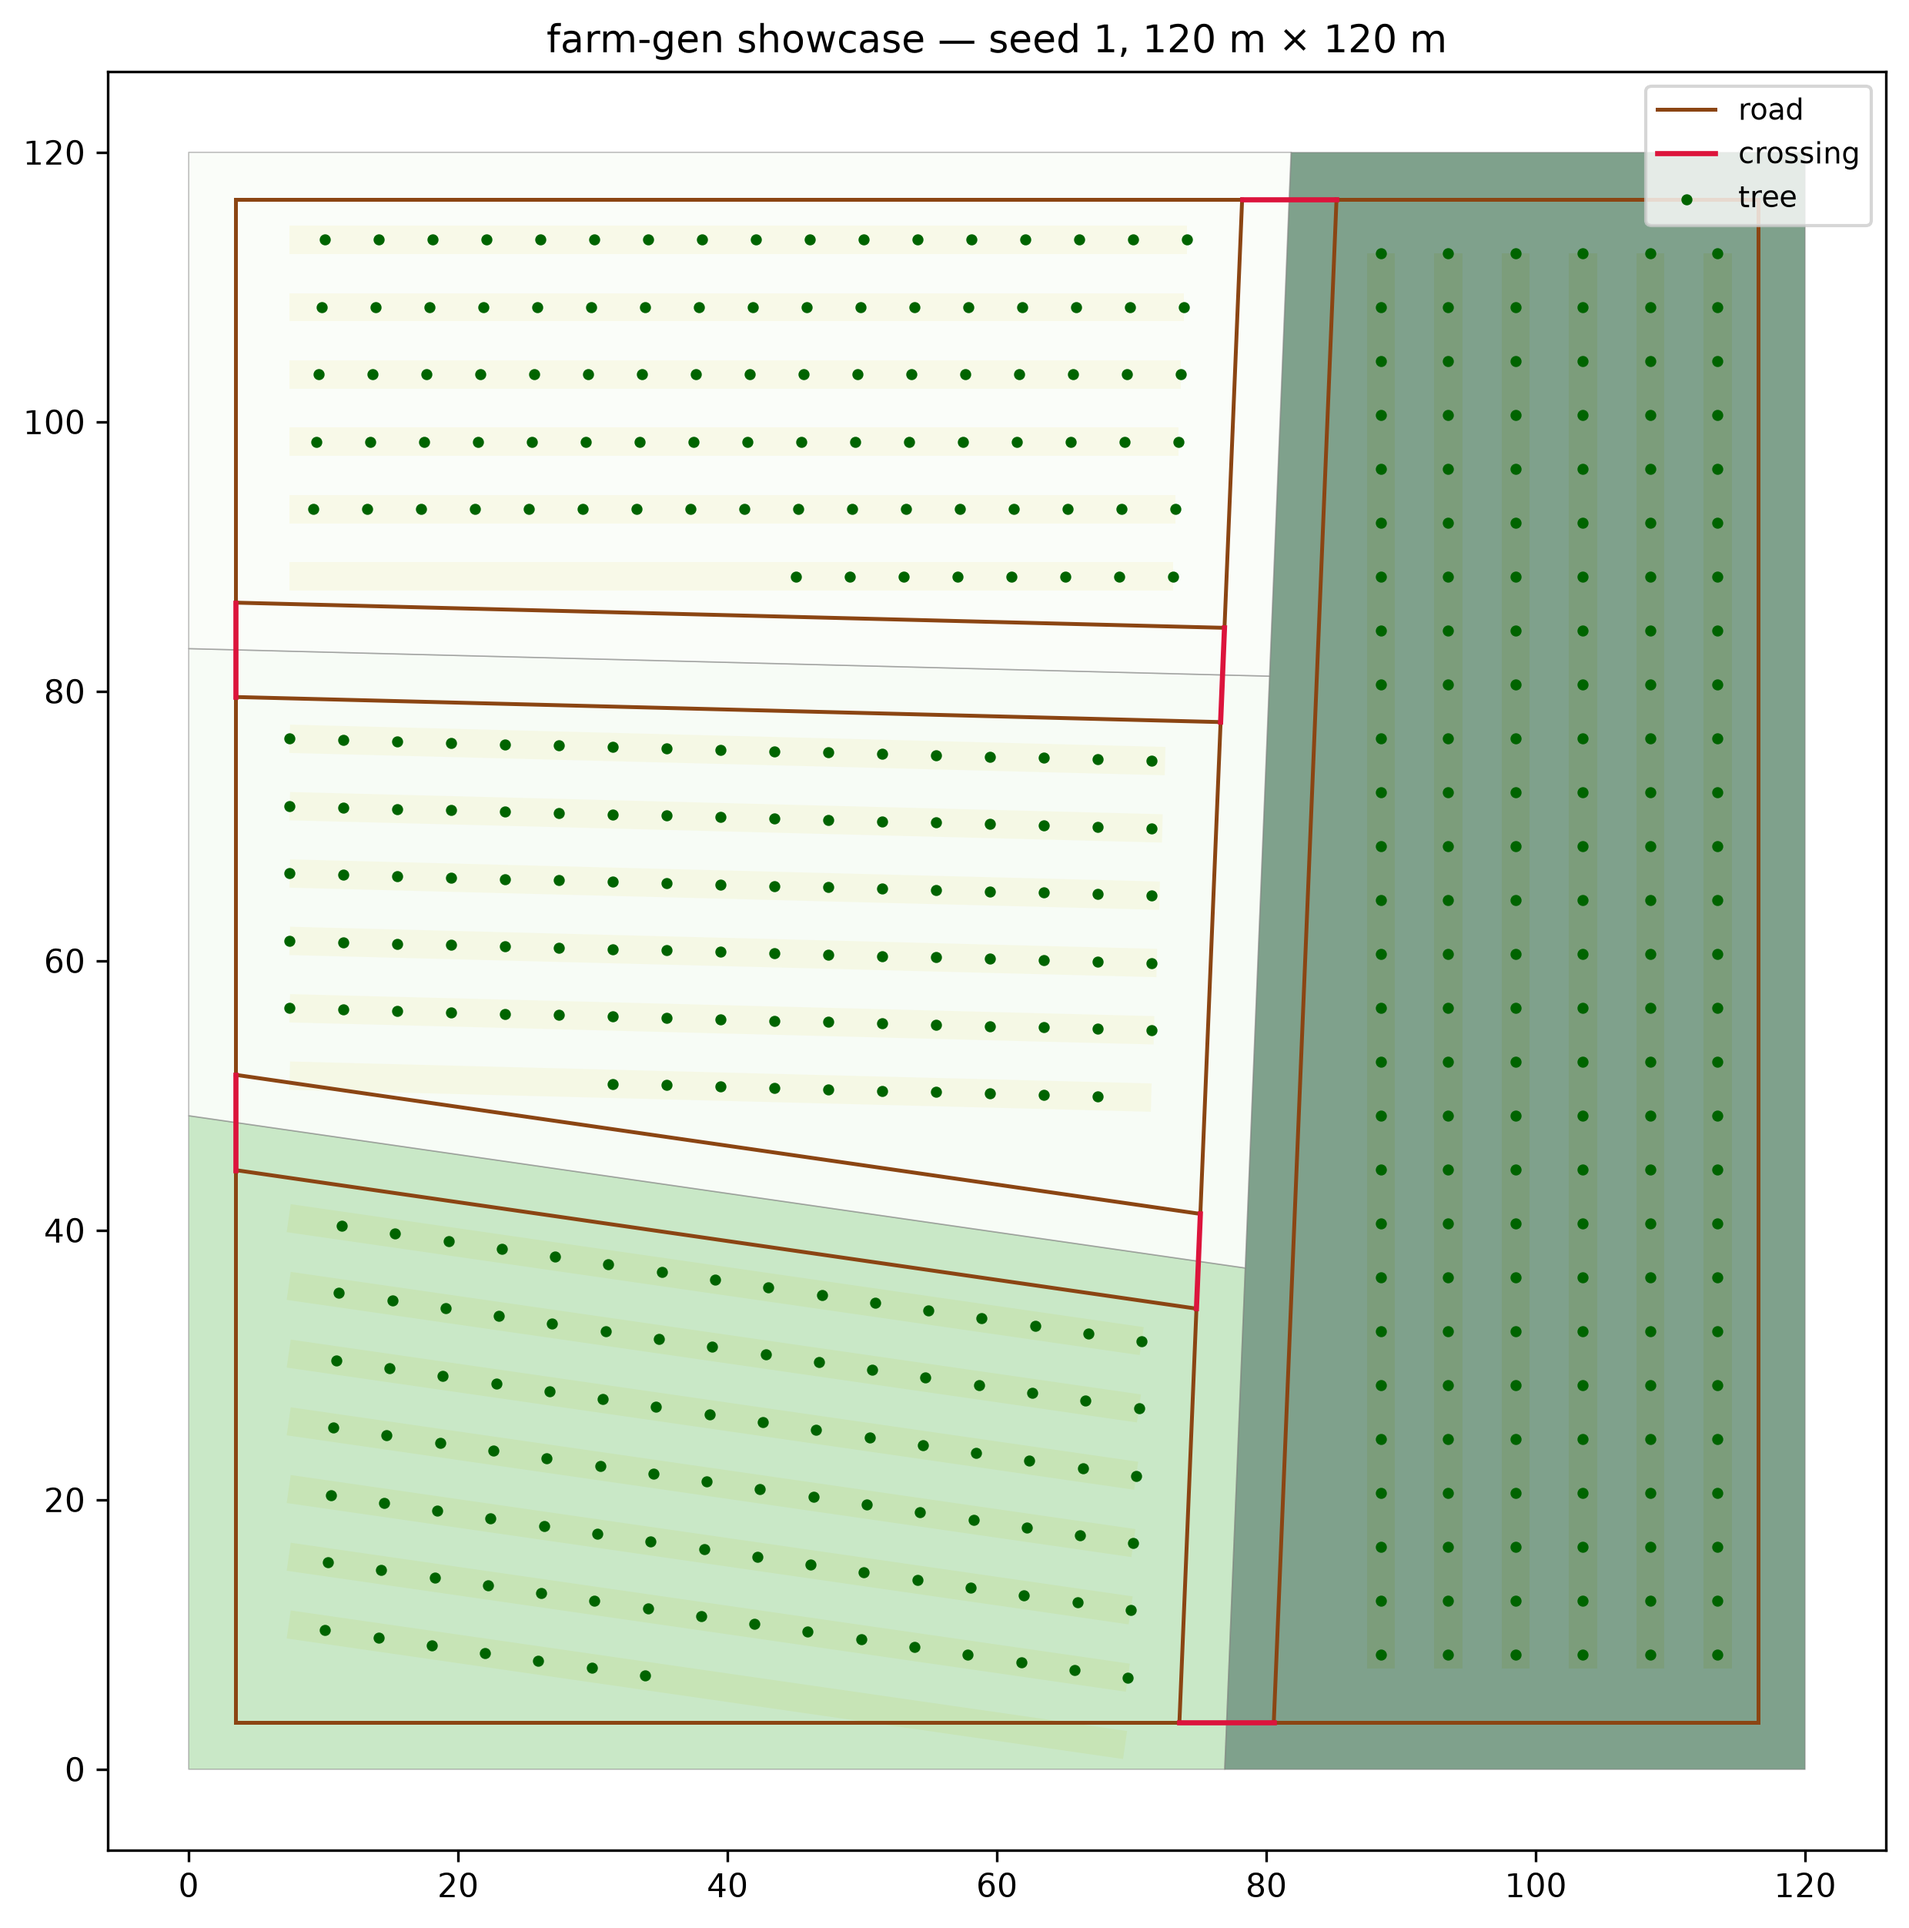
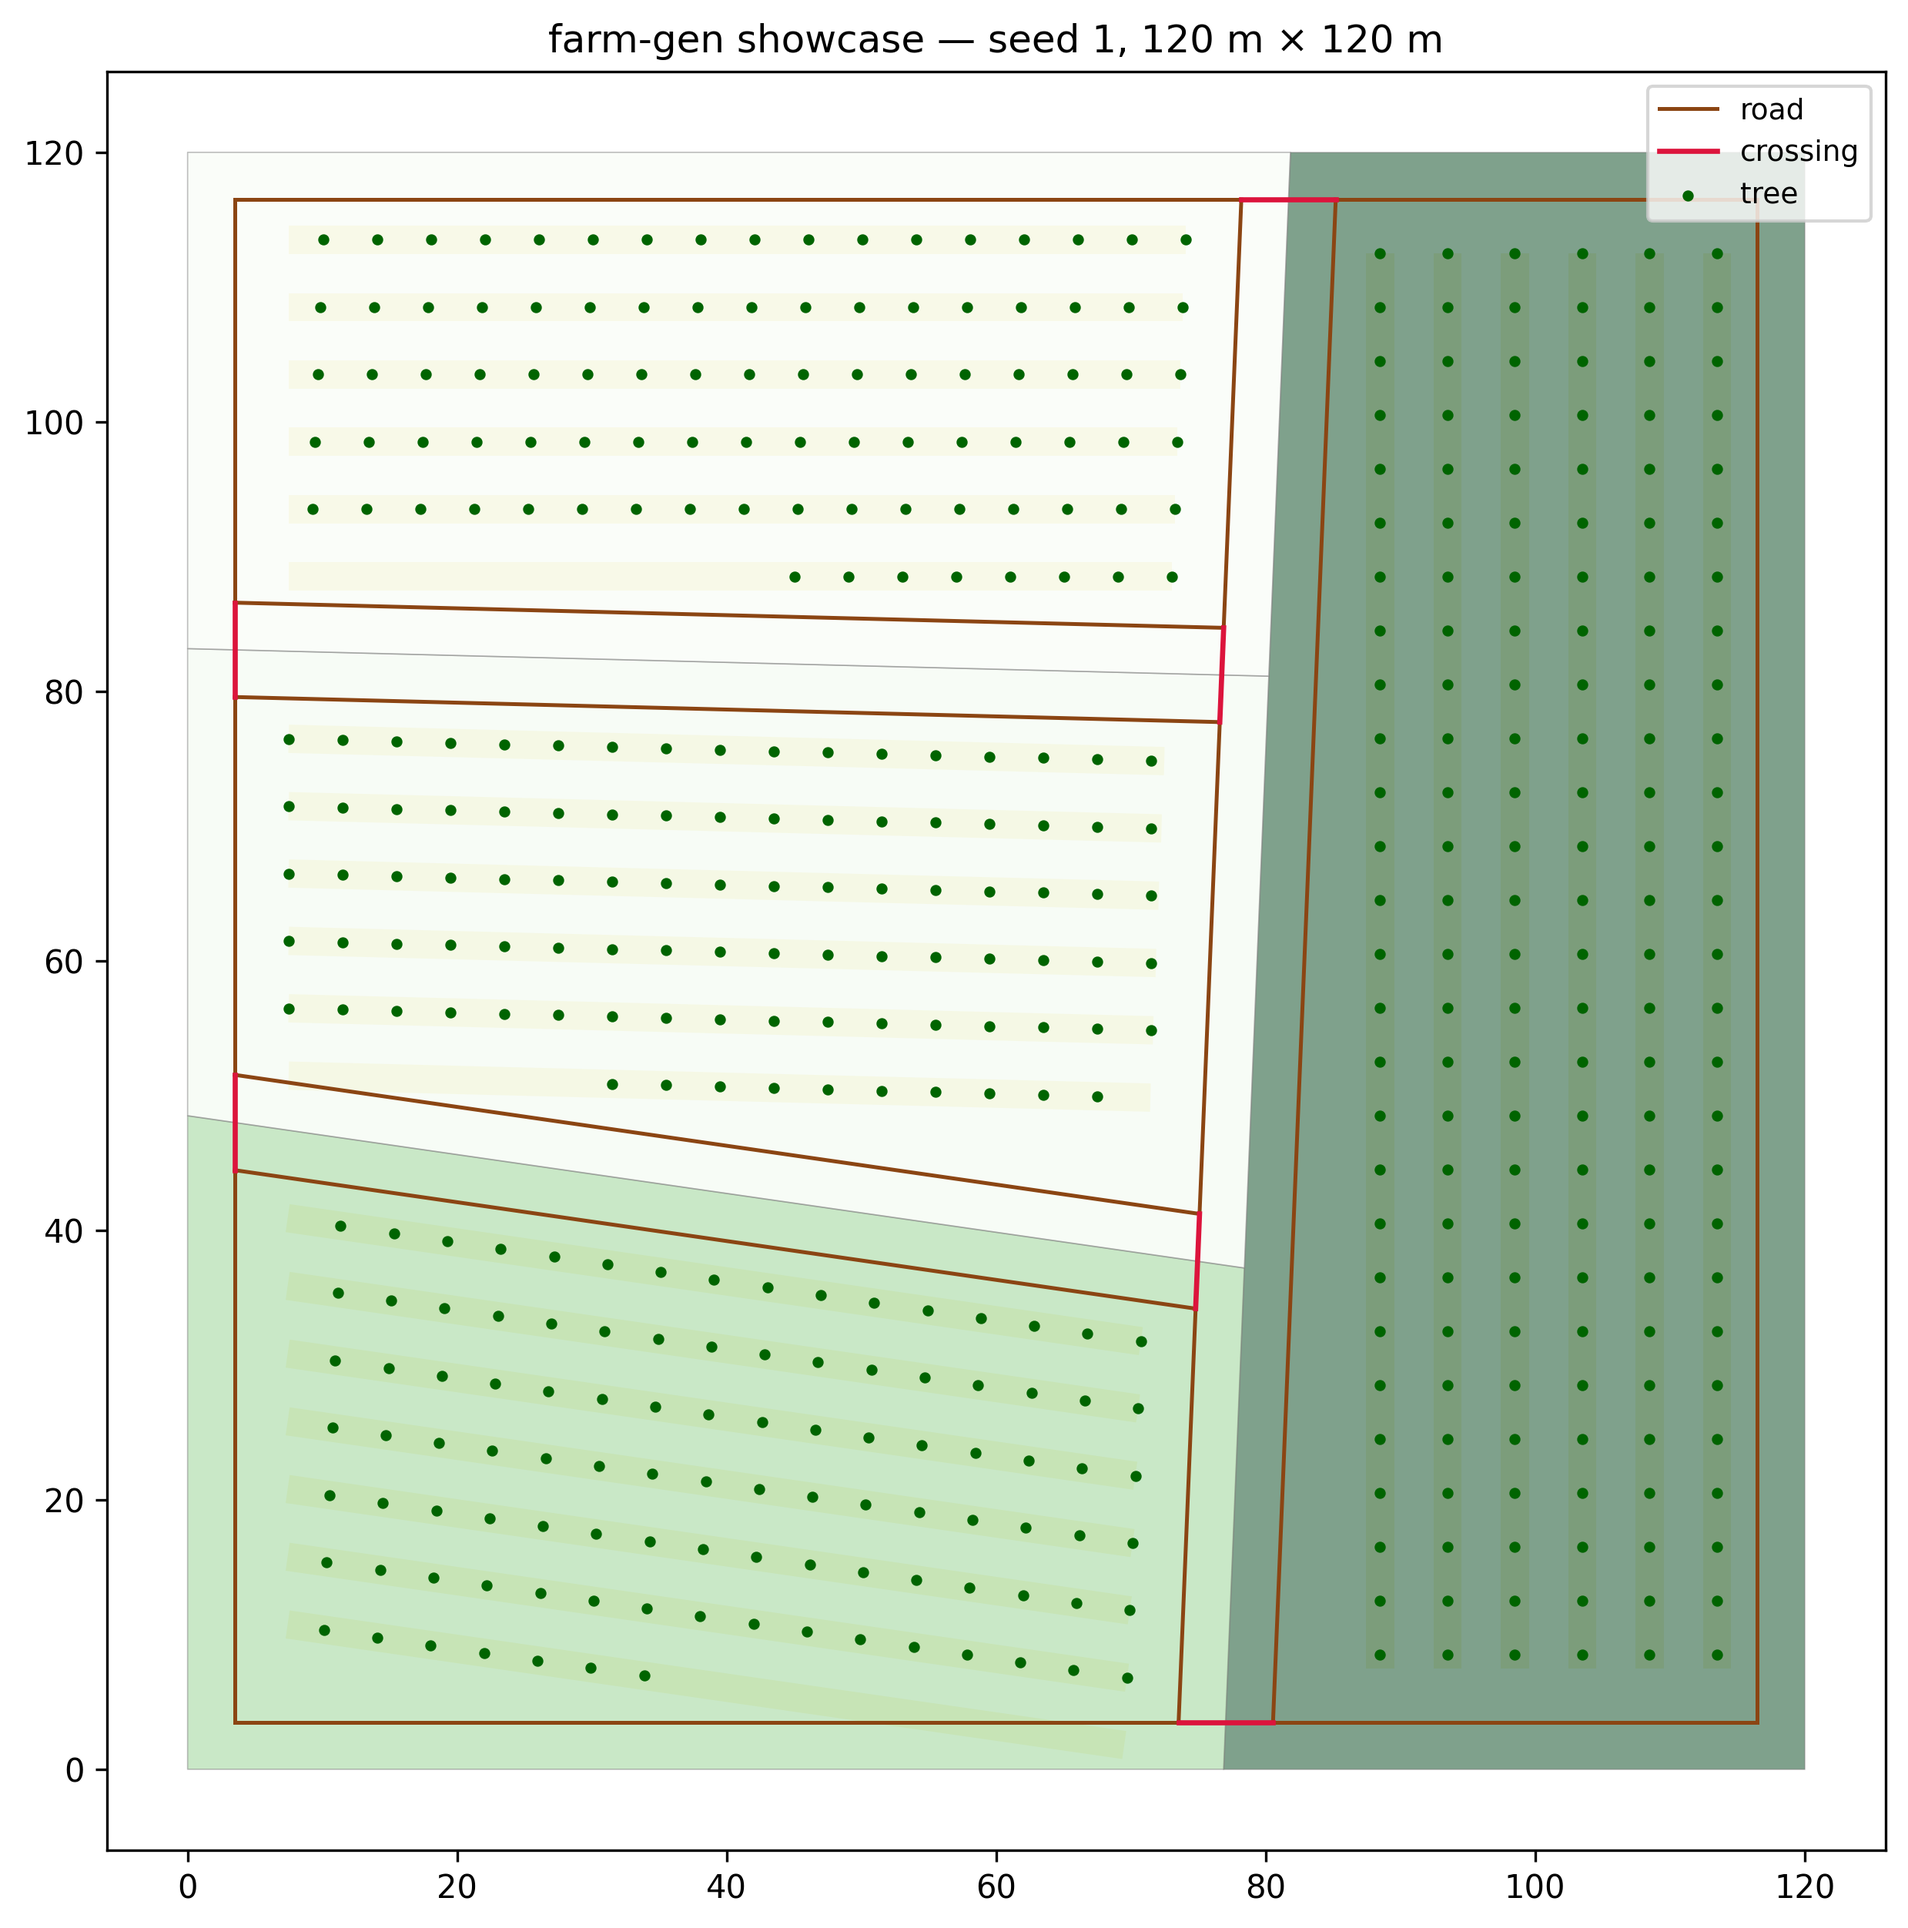
Updates before moving on to tractor generation. Regenerated some output after switching to nvidia isaacsim conda env.

diff --git a/README.md b/README.md
@@ -65,6 +65,38 @@ python examples/farm_mesh_prototype.py
 It generates and validates 5 seeds and saves plots to
 `debug_out/examples/`.
 
+## Generating tree and weed assets
+
+The vegetation geometry is generated procedurally rather than sourced from a
+library of predefined or licensed tree and weed models. The asset-generation
+algorithms were originally developed in the
+[FarmGeneration repository](https://github.com/StuartGJohnson/FarmGeneration)
+and copied into `generation/asset_generation/` so this repository can build
+the same assets independently.
+
+Run the standalone asset build from the repository root:
+
+```bash
+conda activate usd2508
+python examples/generate_procedural_assets.py
+```
+
+This creates four seeded pecan-tree variants and one seeded prototype for each
+of dry grass, fennel, and ashweed under `debug_out/procedural_assets/`. The
+tree generator constructs trunks, branching structure, and leaf geometry and
+procedurally creates the bark and leaf textures. The weed generators construct
+species-specific stems, blades, leaves, and flowers as appropriate, along with
+their textures. The current tree seeds are 101, 202, 303, and 404; weed seeds
+are 101, 202, and 303. Reusing the same seeds produces repeatable USDA geometry
+and texture files.
+
+Asset generation is deliberately separate from farm and mesh generation.
+Farm export expects the prototype library to exist already and references its
+USDA files through tree and weed `PointInstancer` prototypes. It does not
+silently regenerate assets. Each farm seed then determines the prototype
+choice, rotation, and scale at each vegetation placement without modifying the
+underlying asset files.
+
 ## Generating hydrology ground meshes
 
 Run `python examples/generate_procedural_assets.py` first to build the reusable,
@@ -195,5 +227,4 @@ save_farm(scene, config, "my_farm.yaml")
 ## AI assistance
 
 ChatGPT 5.6 (OpenAI, 08/2026), Codex CLI (gpt-5.6-sol, OpenAI, 08/2026), Claude Code 2.1.248 CLI (Anthropic, 08/20206) and Google Antigravity 1.0.14 CLI (Google, 08/2026) were used to assist in the creation of this repo. In particular, the python code is entirely AI created, with git operations, feedback, debugging help, and generation of .md file instructions by Stuart Johnson.
-
 
